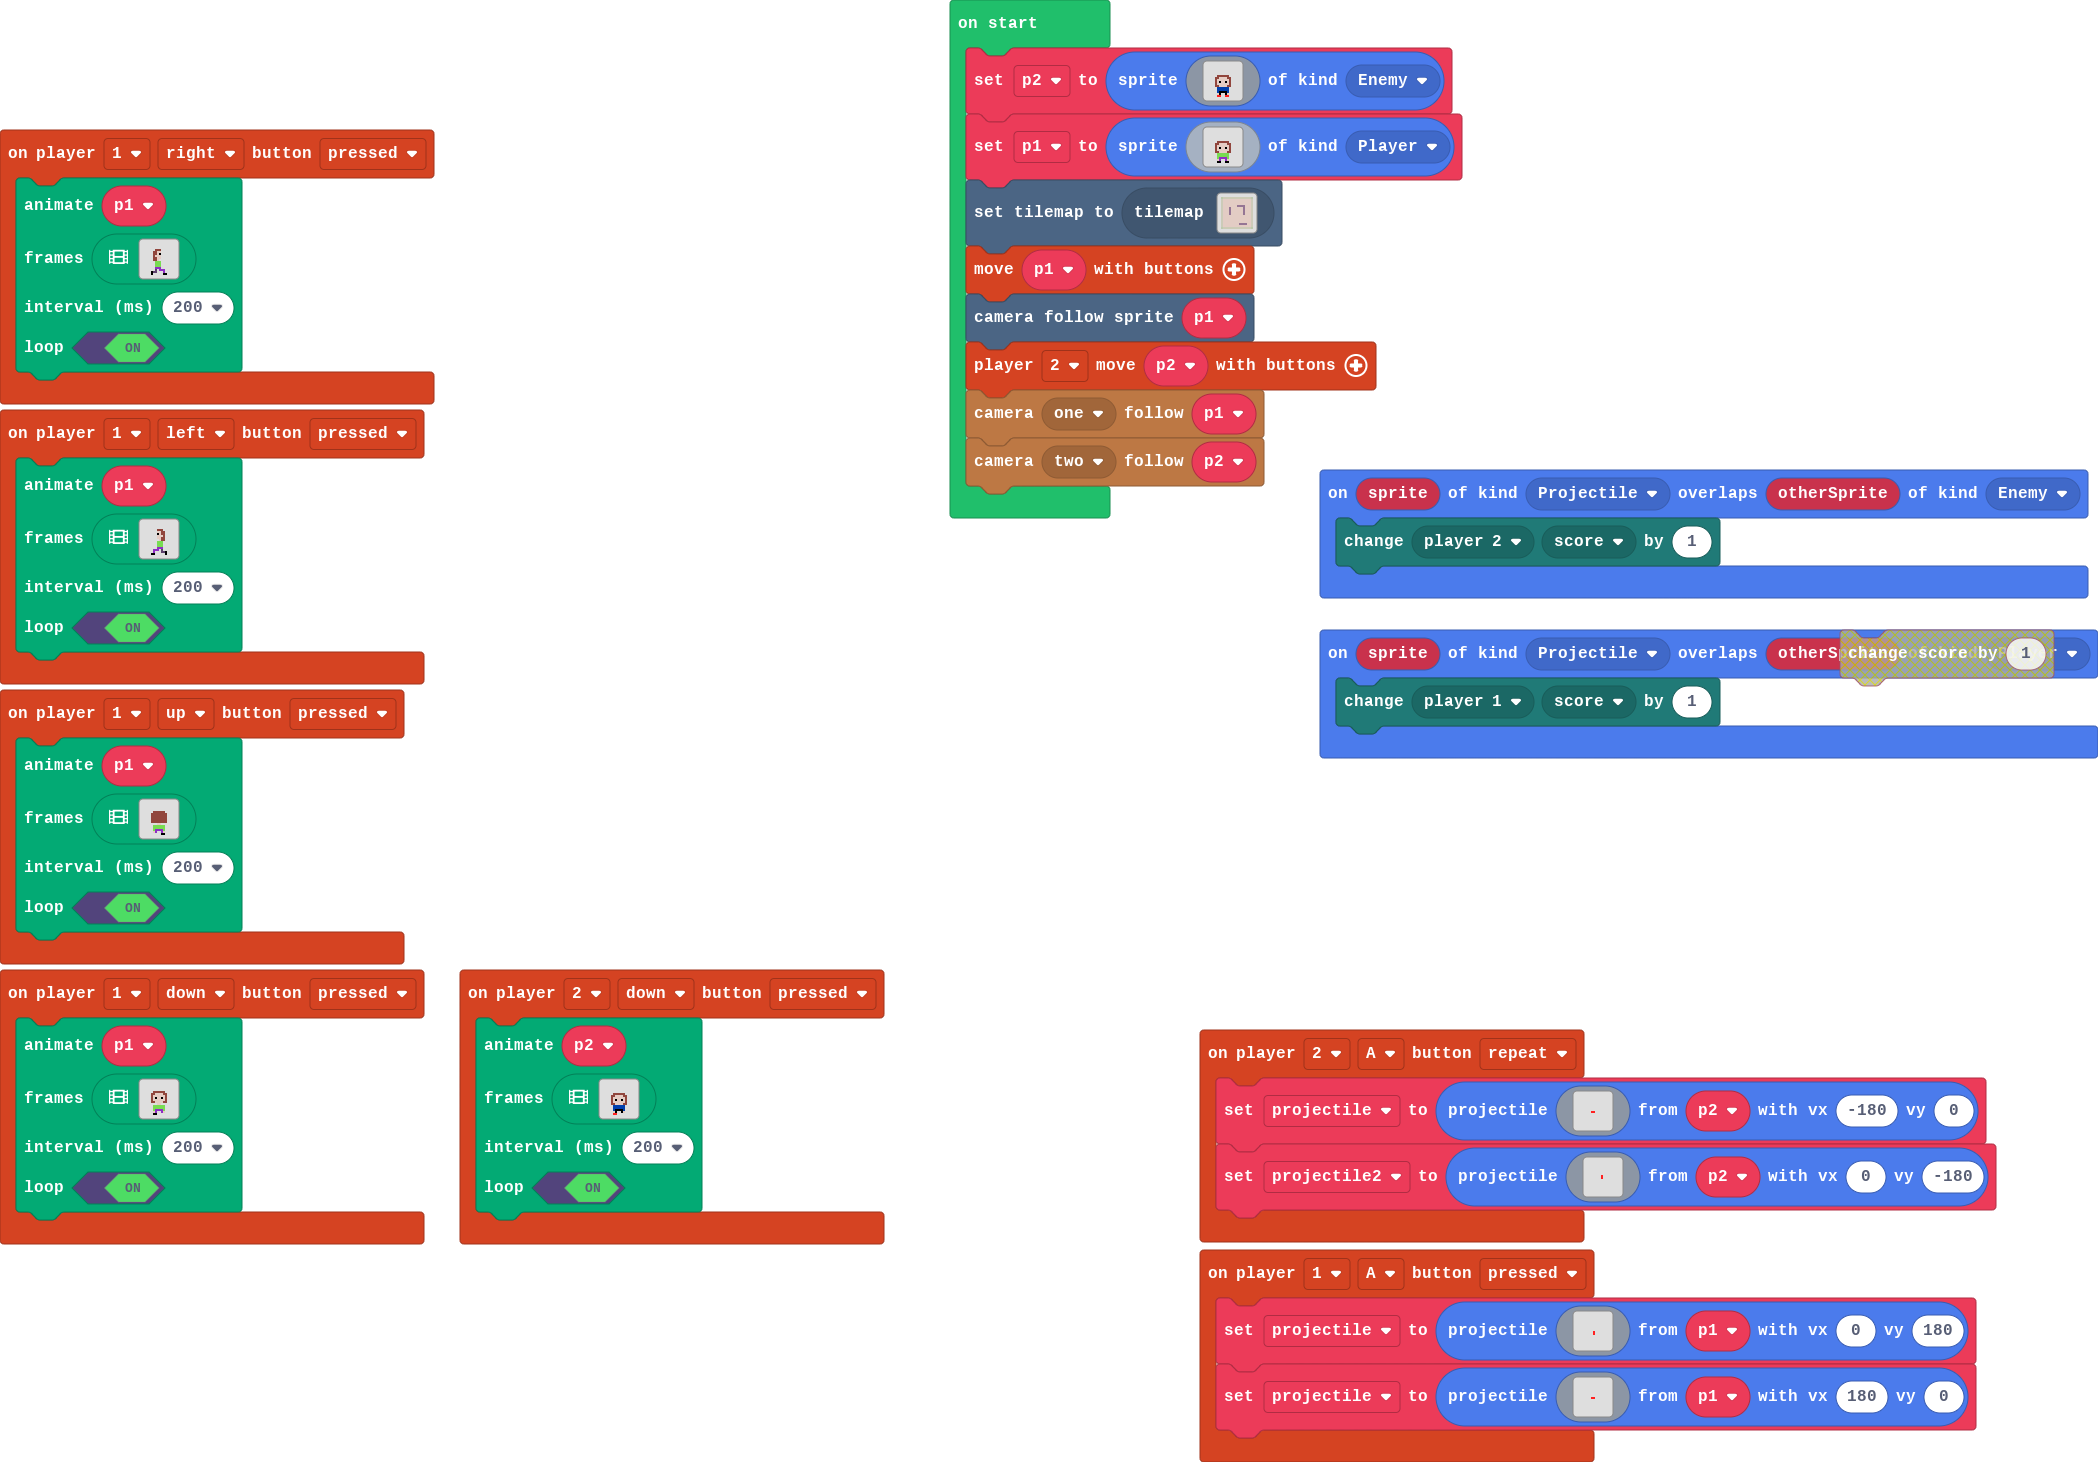
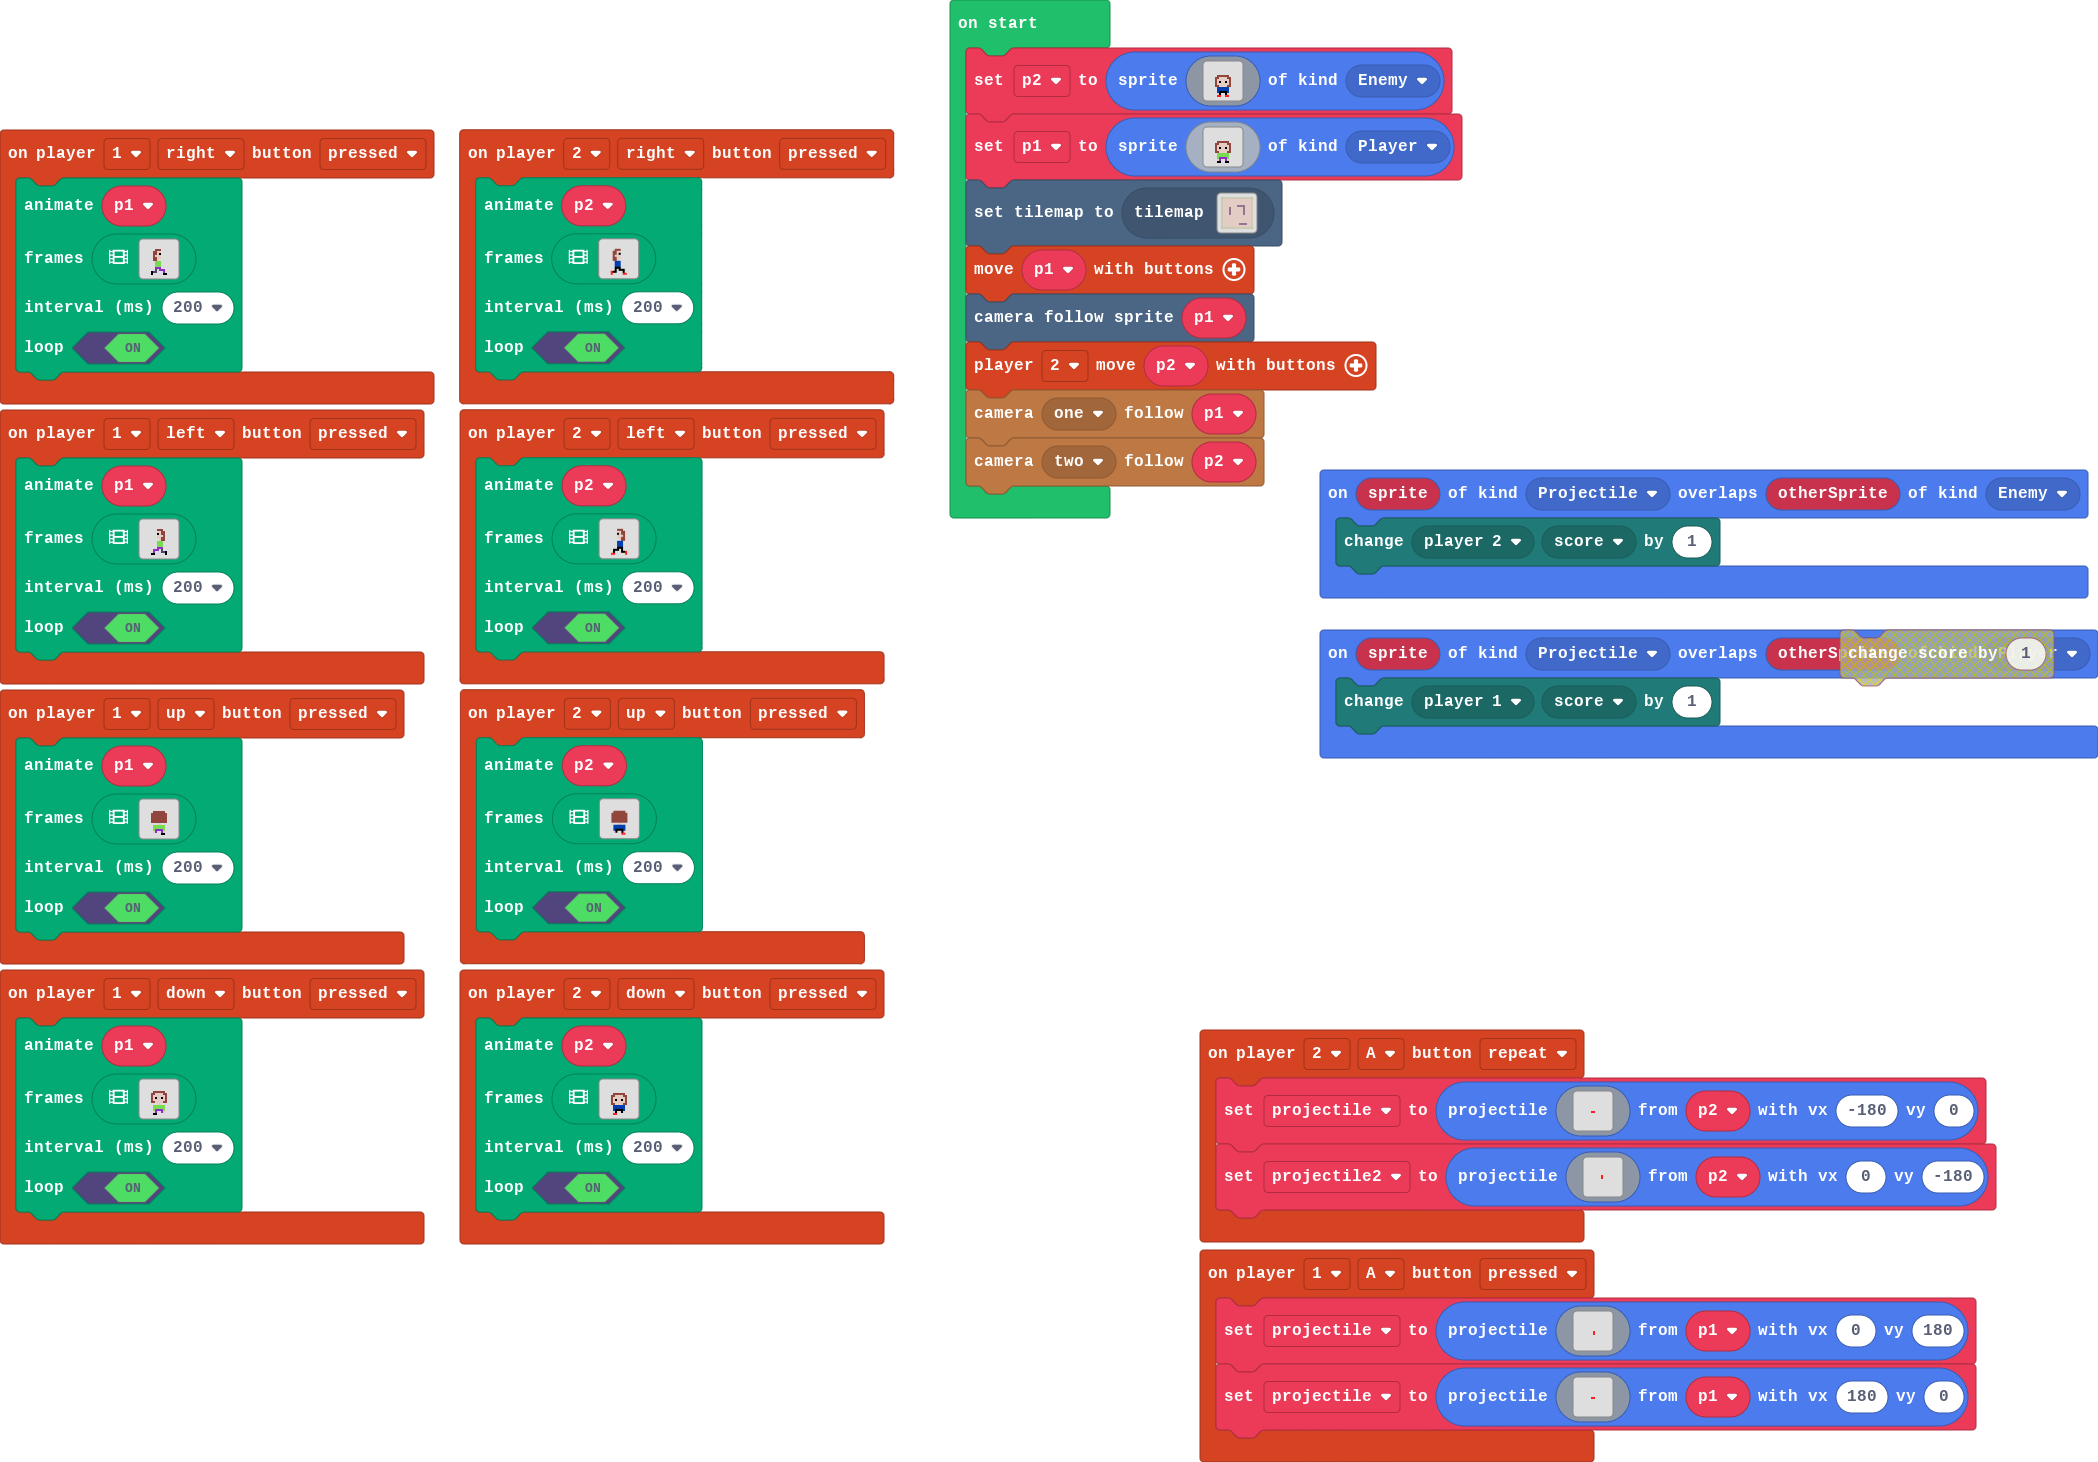
qwerty

Changed region(s): [[0.2169, 0.0616, 0.4337, 0.6772]]

diff --git a/main.ts b/main.ts
@@ -123,6 +123,200 @@ controller.player2.onButtonEvent(ControllerButton.Down, ControllerButtonEvent.Pr
 sprites.onOverlap(SpriteKind.Projectile, SpriteKind.Player, function (sprite, otherSprite) {
     mp.changePlayerStateBy(mp.playerSelector(mp.PlayerNumber.One), MultiplayerState.score, 1)
 })
+controller.player2.onButtonEvent(ControllerButton.Up, ControllerButtonEvent.Pressed, function () {
+    animation.runImageAnimation(
+    p2,
+    [img`
+        . . . . . . . . . . . . . . . . 
+        . . . . . . . . . . . . . . . . 
+        . . . . . . . . . . . . . . . . 
+        . . . . . . . . . . . . . . . . 
+        . . . . . e e e e e e . . . . . 
+        . . . . e e e e e e e e . . . . 
+        . . . . e e e e e e e e . . . . 
+        . . . . e e e e e e e e . . . . 
+        . . . . e e e e e e e e . . . . 
+        . . . . e e e e e e e e . . . . 
+        . . . . . . . d d . . . . . . . 
+        . . . . . 8 8 8 8 8 8 . . . . . 
+        . . . . . 8 8 8 8 8 8 . . . . . 
+        . . . . . 8 f f f f 8 . . . . . 
+        . . . . . d f . . f d . . . . . 
+        . . . . . . . . . 2 2 . . . . . 
+        `,img`
+        . . . . . . . . . . . . . . . . 
+        . . . . . . . . . . . . . . . . 
+        . . . . . . . . . . . . . . . . 
+        . . . . . . . . . . . . . . . . 
+        . . . . . e e e e e e . . . . . 
+        . . . . e e e e e e e e . . . . 
+        . . . . e e e e e e e e . . . . 
+        . . . . e e e e e e e e . . . . 
+        . . . . e e e e e e e e . . . . 
+        . . . . e e e e e e e e . . . . 
+        . . . . . . . d d . . . . . . . 
+        . . . . . 8 8 8 8 8 8 . . . . . 
+        . . . . . 8 8 8 8 8 8 . . . . . 
+        . . . . . 8 f f f f 8 . . . . . 
+        . . . . . d f . . f d . . . . . 
+        . . . . . 2 2 . . . . . . . . . 
+        `],
+    200,
+    true
+    )
+})
+controller.player2.onButtonEvent(ControllerButton.Right, ControllerButtonEvent.Pressed, function () {
+    animation.runImageAnimation(
+    p2,
+    [img`
+        . . . . . . . . . . . . . . . . 
+        . . . . . . . . . . . . . . . . 
+        . . . . . . . . . . . . . . . . 
+        . . . . . . e e e . . . . . . . 
+        . . . . . e e d d . . . . . . . 
+        . . . . . e e d f . . . . . . . 
+        . . . . . e d d d . . . . . . . 
+        . . . . . e e d d . . . . . . . 
+        . . . . . e e d . . . . . . . . 
+        . . . . . . 8 8 8 . . . . . . . 
+        . . . . . . 8 8 8 . . . . . . . 
+        . . . . . . 8 8 8 . . . . . . . 
+        . . . . . . f f f . . . . . . . 
+        . . . . . . f . f f f . . . . . 
+        . . . . 2 f f . . . f . . . . . 
+        . . . . 2 . . . . . 2 2 . . . . 
+        `,img`
+        . . . . . . . . . . . . . . . . 
+        . . . . . . . . . . . . . . . . 
+        . . . . . . . . . . . . . . . . 
+        . . . . . . e e e . . . . . . . 
+        . . . . . e e d d . . . . . . . 
+        . . . . . e e d f . . . . . . . 
+        . . . . . e d d d . . . . . . . 
+        . . . . . e e d d . . . . . . . 
+        . . . . . e e d . . . . . . . . 
+        . . . . . . 8 8 8 . . . . . . . 
+        . . . . . . 8 8 8 . . . . . . . 
+        . . . . . . 8 8 8 . . . . . . . 
+        . . . . . . f f f . . . . . . . 
+        . . . . . . f . f . . . . . . . 
+        . . . . . . f . f . . . . . . . 
+        . . . . . . 2 2 2 2 . . . . . . 
+        `,img`
+        . . . . . . . . . . . . . . . . 
+        . . . . . . . . . . . . . . . . 
+        . . . . . . . . . . . . . . . . 
+        . . . . . . e e e . . . . . . . 
+        . . . . . e e d d . . . . . . . 
+        . . . . . e e d f . . . . . . . 
+        . . . . . e d d d . . . . . . . 
+        . . . . . e e d d . . . . . . . 
+        . . . . . e e d . . . . . . . . 
+        . . . . . . 8 8 8 . . . . . . . 
+        . . . . . . 8 8 8 . . . . . . . 
+        . . . . . . 8 8 8 . . . . . . . 
+        . . . . . . f f f . . . . . . . 
+        . . . . . . f . f f f . . . . . 
+        . . . . 2 f f . . . f . . . . . 
+        . . . . 2 . . . . . 2 2 . . . . 
+        `,img`
+        . . . . . . . . . . . . . . . . 
+        . . . . . . . . . . . . . . . . 
+        . . . . . . . . . . . . . . . . 
+        . . . . . . e e e . . . . . . . 
+        . . . . . e e d d . . . . . . . 
+        . . . . . e e d f . . . . . . . 
+        . . . . . e d d d . . . . . . . 
+        . . . . . e e d d . . . . . . . 
+        . . . . . e e d . . . . . . . . 
+        . . . . . . 8 8 8 . . . . . . . 
+        . . . . . . 8 8 8 . . . . . . . 
+        . . . . . . 8 8 8 . . . . . . . 
+        . . . . . . f f f . . . . . . . 
+        . . . . . . f . f . . . . . . . 
+        . . . . . . f . f . . . . . . . 
+        . . . . . . 2 2 2 2 . . . . . . 
+        `],
+    200,
+    true
+    )
+})
+controller.player2.onButtonEvent(ControllerButton.Left, ControllerButtonEvent.Pressed, function () {
+    animation.runImageAnimation(
+    p2,
+    [img`
+        . . . . . . . . . . . . . . . . 
+        . . . . . . . . . . . . . . . . 
+        . . . . . . . . . . . . . . . . 
+        . . . . . . . e e e . . . . . . 
+        . . . . . . . d d e e . . . . . 
+        . . . . . . . f d e e . . . . . 
+        . . . . . . . d d d e . . . . . 
+        . . . . . . . d d e e . . . . . 
+        . . . . . . . . d e e . . . . . 
+        . . . . . . . 8 8 8 . . . . . . 
+        . . . . . . . 8 8 8 . . . . . . 
+        . . . . . . . 8 8 8 . . . . . . 
+        . . . . . . . f f f . . . . . . 
+        . . . . . f f f . f . . . . . . 
+        . . . . . f . . . f f 2 . . . . 
+        . . . . 2 2 . . . . . 2 . . . . 
+        `,img`
+        . . . . . . . . . . . . . . . . 
+        . . . . . . . . . . . . . . . . 
+        . . . . . . . . . . . . . . . . 
+        . . . . . . . e e e . . . . . . 
+        . . . . . . . d d e e . . . . . 
+        . . . . . . . f d e e . . . . . 
+        . . . . . . . d d d e . . . . . 
+        . . . . . . . d d e e . . . . . 
+        . . . . . . . . d e e . . . . . 
+        . . . . . . . 8 8 8 . . . . . . 
+        . . . . . . . 8 8 8 . . . . . . 
+        . . . . . . . 8 8 8 . . . . . . 
+        . . . . . . . f f f . . . . . . 
+        . . . . . . . f . f . . . . . . 
+        . . . . . . . f . f . . . . . . 
+        . . . . . . 2 2 2 2 . . . . . . 
+        `,img`
+        . . . . . . . . . . . . . . . . 
+        . . . . . . . . . . . . . . . . 
+        . . . . . . . . . . . . . . . . 
+        . . . . . . . e e e . . . . . . 
+        . . . . . . . d d e e . . . . . 
+        . . . . . . . f d e e . . . . . 
+        . . . . . . . d d d e . . . . . 
+        . . . . . . . d d e e . . . . . 
+        . . . . . . . . d e e . . . . . 
+        . . . . . . . 8 8 8 . . . . . . 
+        . . . . . . . 8 8 8 . . . . . . 
+        . . . . . . . 8 8 8 . . . . . . 
+        . . . . . . . f f f . . . . . . 
+        . . . . . f f f . f . . . . . . 
+        . . . . . f . . . f f 2 . . . . 
+        . . . . 2 2 . . . . . 2 . . . . 
+        `,img`
+        . . . . . . . . . . . . . . . . 
+        . . . . . . . . . . . . . . . . 
+        . . . . . . . . . . . . . . . . 
+        . . . . . . . e e e . . . . . . 
+        . . . . . . . d d e e . . . . . 
+        . . . . . . . f d e e . . . . . 
+        . . . . . . . d d d e . . . . . 
+        . . . . . . . d d e e . . . . . 
+        . . . . . . . . d e e . . . . . 
+        . . . . . . . 8 8 8 . . . . . . 
+        . . . . . . . 8 8 8 . . . . . . 
+        . . . . . . . 8 8 8 . . . . . . 
+        . . . . . . . f f f . . . . . . 
+        . . . . . . . f . f . . . . . . 
+        . . . . . . . f . f . . . . . . 
+        . . . . . . 2 2 2 2 . . . . . . 
+        `],
+    200,
+    true
+    )
+})
 controller.player1.onButtonEvent(ControllerButton.Right, ControllerButtonEvent.Pressed, function () {
     animation.runImageAnimation(
     p1,
